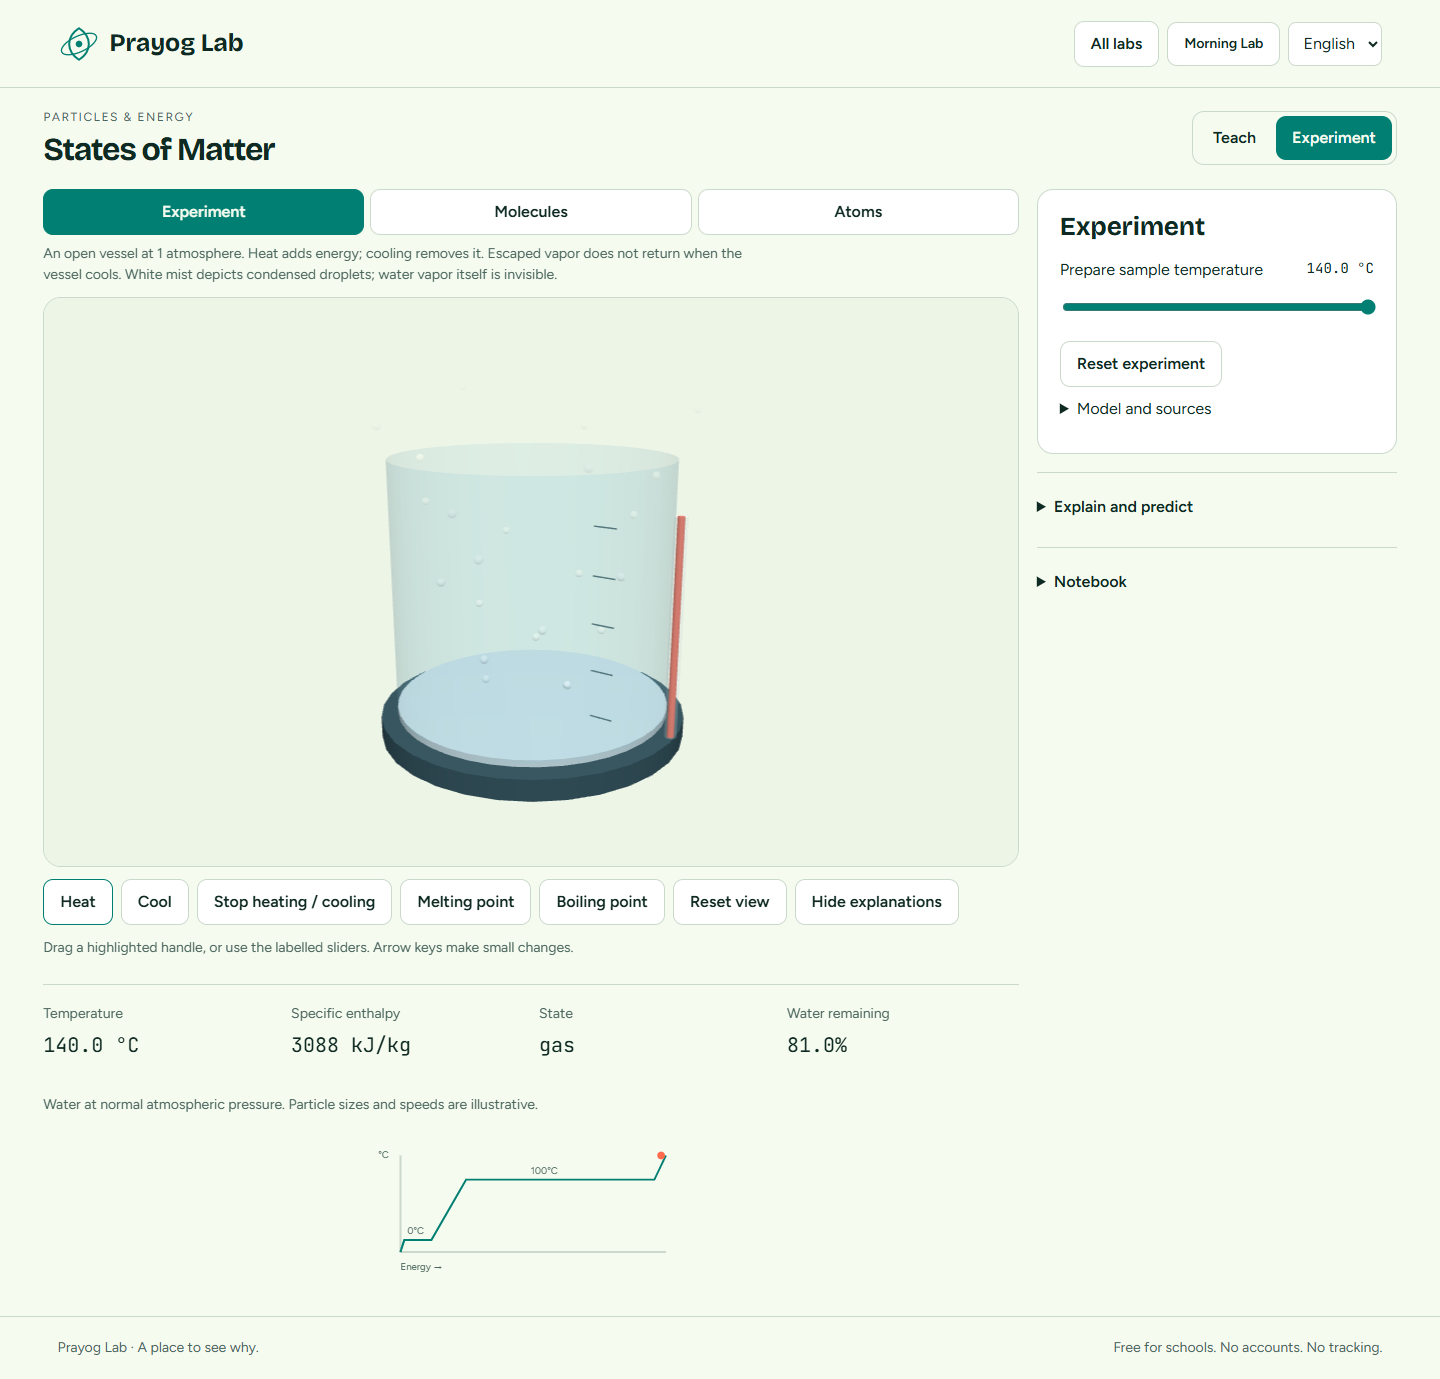
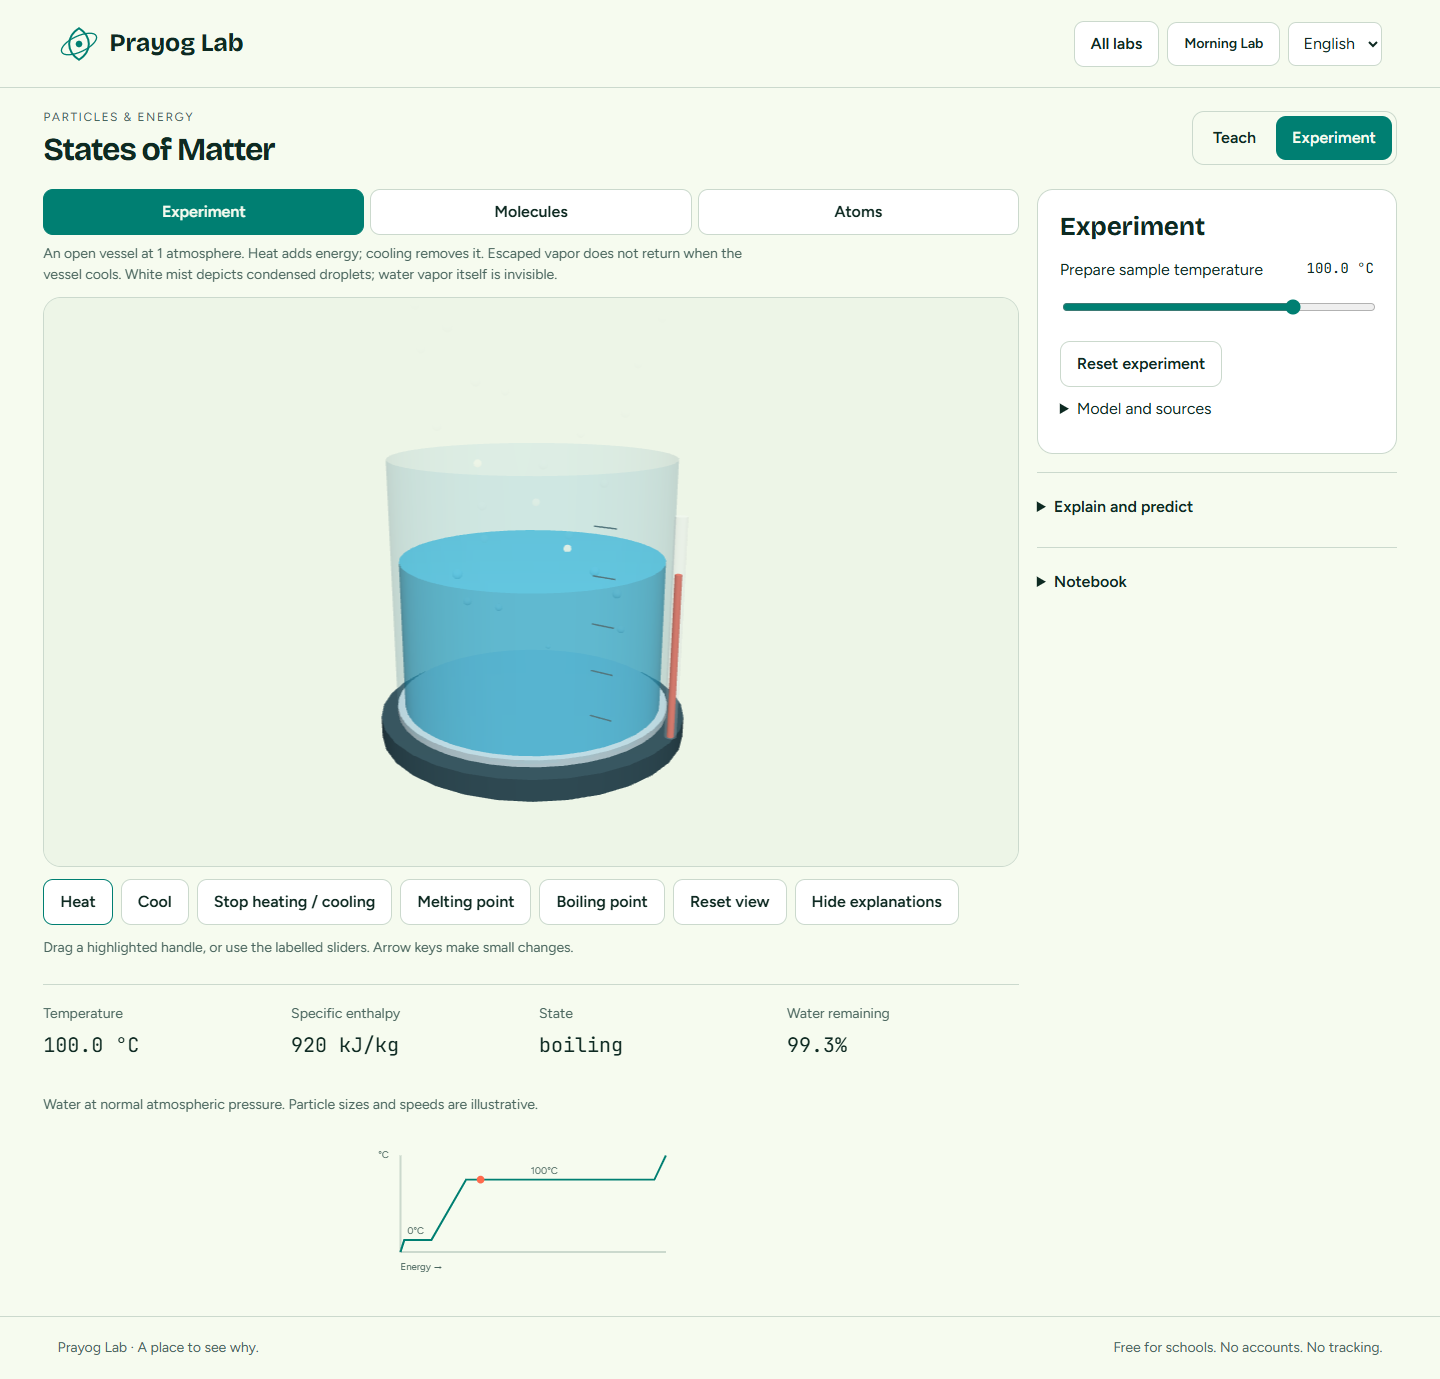
fix: prepare liquid at boiling point before vaporization

diff --git a/src/engine/matter.ts b/src/engine/matter.ts
@@ -73,7 +73,8 @@ export function phaseFromEnergy(energy: number, data = WATER) {
 }
 export function energyAtTemperature(t: number, data = WATER) {
   if (t < 0) return t * data.solidCapacity;
-  if (t < 100) return data.fusion + t * data.liquidCapacity;
+  // At the boiling point, prepare liquid at the start of vaporization.
+  if (t <= 100) return data.fusion + t * data.liquidCapacity;
   return (
     data.fusion +
     100 * data.liquidCapacity +

diff --git a/src/content/matter.ts b/src/content/matter.ts
@@ -36,7 +36,8 @@ export default {
     },
     {
       title: "Let particles spread",
-      concept: "Gas particles move freely and fill their container.",
+      concept:
+        "Gas particles move freely, spread apart and escape an open vessel.",
       action: "Set the temperature above 100°C.",
       why: "After boiling finishes, further energy raises the temperature of the gas.",
       check: "Which state fills all the available space?",

diff --git a/tests/lab-engine.test.ts b/tests/lab-engine.test.ts
@@ -29,6 +29,7 @@ describe("Cartesian optics", () => {
 });
 describe("Water enthalpy", () => {
   it("conserves temperature during both phase changes", () => {
+    expect(phaseFromEnergy(energyAtTemperature(100)).gas).toBe(0);
     expect(phaseFromEnergy(167).temperature).toBe(0);
     expect(phaseFromEnergy(167).liquid).toBe(0.5);
     expect(phaseFromEnergy(752 + 1128).temperature).toBe(100);
